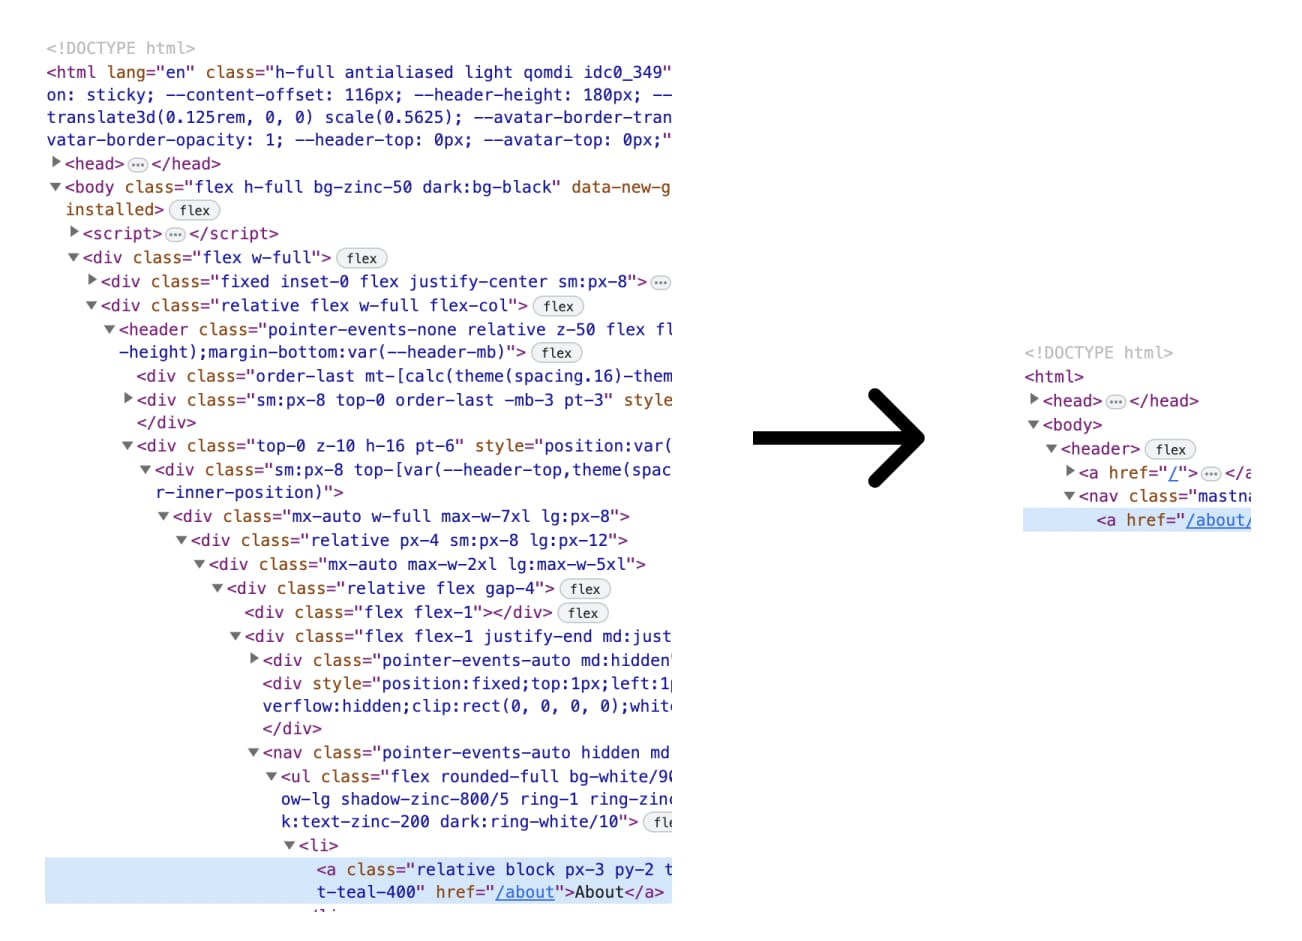
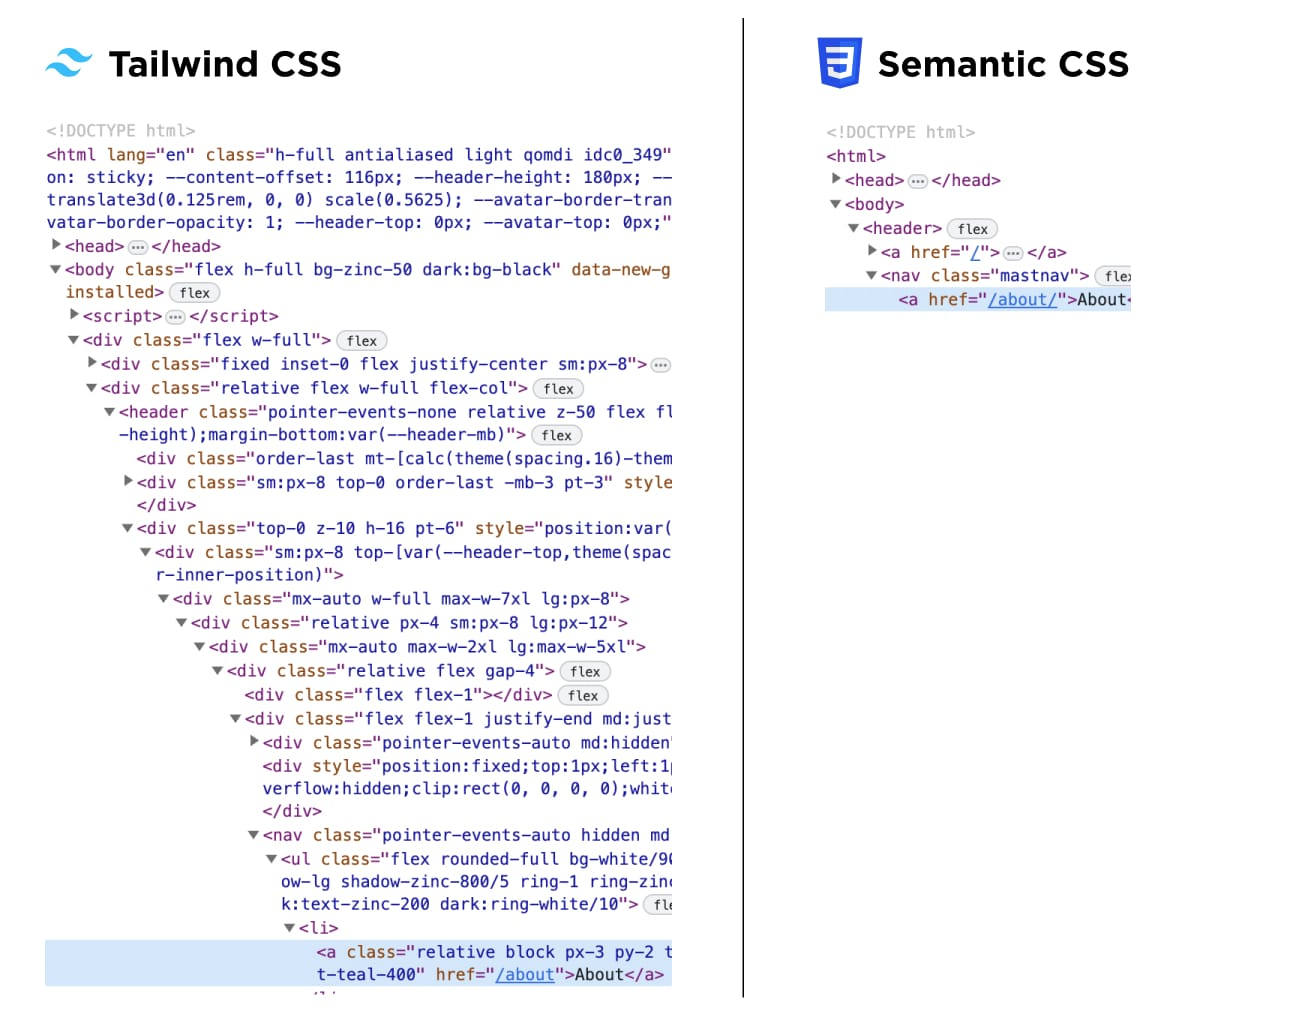
Tailwind blog entry pushed out

diff --git a/global/ssr/media.htm b/global/ssr/media.htm
@@ -1,6 +1,5 @@
 
-<figure @name="media" :id="id" class="{ class } { clickable: href }"
-  onclick="if({!!href}) location.href=\'{href}\'">
+<a @name="media" :id="id" class="{ class } { clickable: href }" :href="href">
 
   <picture :style="bg">
     <source :for="el in sources" :srcset="el.src" :media="el.media" :type="el.type">
@@ -24,7 +23,7 @@
     }
   </script>
 
-</figure>
+</a>
 
 <script>
   function getMime(path) {

diff --git a/blog/tailwind-vs-semantic-css/index.md b/blog/tailwind-vs-semantic-css/index.md
@@ -1,14 +1,14 @@
 ---
 title: Tailwind vs Semantic CSS
-desc: Comparing two identically designed websites, their size, rendering speed, and best practices.
+desc: Comparing two identically designed websites, their weight, amount of HTML and CSS, rendering speed, and best practices.
 og: img/og.jpg
-thumb: img/og-thumb.jpg
-date: 2023-10-22
+thumb: tw-thumb.jpg
+date: 2023-10-23
 include: syntax
 ---
 
 # Tailwind CSS vs. Semantic CSS
-This study compares two websites with a similar design: A commercial Tailwind "spotlight" template, and the same site crafted with semantic CSS and [Nue server components](/docs/nuejs/server-components). We'll take a deep look at what is under the hood and how the sites are built.
+This study compares two websites with a similar design: the official Tailwind "spotlight" template from the developers of Tailwind, and the same site crafted with semantic CSS and [Nue server components](/docs/nuejs/server-components.html). We'll take a deep look at what is under the hood and how the sites are built.
 
 [.cols]
   [media]
@@ -51,7 +51,7 @@ Here is the full HTML source code of the front page.
   caption: Full HTML coding on the front page
   class: small-bordered wider
 
-Tailwind is 75K of unminified HTML, while the semantic version is 8K. That is: Tailwind and Next.js require ~nine times more HTML~ to render the same design than the semantic version.
+Tailwind (and Next.js) generate 75K of unminified HTML, while the semantic version is only 8K. While some parts come from Next, it's pretty clear that Tailwind requires significantly more HTML to render the same design than the semantic version.
 
 With Tailwind the [Text to HTML Ratio][tw-ratio] is only 2.3%, which is "Very low" according to SiteGuru. [Nue ratio][nue-ratio], however, is 20.3% which is "Good".
 
@@ -87,7 +87,7 @@ Some key takes:
   caption: Creating a new design by extending a semantic base design
   class: tall
 
-Theming or "skinning" is a powerful concept in semantic CSS. You can alter your design by swapping parts of your CSS with another one or overriding a [base version](/@base/). Theming is impossible with Tailwind because the design is tightly coupled to the markup. If you want a new design, you must rewrite your HTML and wipe out your earlier work.
+Theming or "skinning" is a powerful concept in semantic CSS. You can alter your design by swapping parts of your CSS with another one or overriding a [base version](/@base/). CSS theming is impossible with Tailwind because the design is coupled to the markup. If you want a new design, you must edit your markup and override your earlier work.
 
 
 
@@ -105,7 +105,7 @@ Please compare [Tailwind metrics](//pagespeed.web.dev/analysis/https-spotlight-t
 
 Two reasons why the semantic version is faster:
 
-1. The primary CSS is [inlined](//blog.logrocket.com/improve-site-performance-inlining-css/) on the HTML page so that all the assets for the first viewport are fetched in the initial request.
+1. The primary CSS is [inlined](//imkev.dev/loading-css) on the HTML page so that all the assets for the first viewport are fetched in the initial request. This is probably the most important performance optimization for the perceived page loading experience.
 
 2. The first request is [less than 14K][14k], which is the maximum size of the first TCP packet.
 
@@ -188,6 +188,8 @@ To this
 <button class="secondary">
 ```
 
+Without turning into components.
+
 
 ### But co-location is important?
 Co-location is a catchy name for tight coupling. A term to promote the idea that styling should be tied to the presentation. Repeating things vs. re-using things. See above.
@@ -221,5 +223,5 @@ I'm working on it! I wanted to push out this blog entry quickly without the over
 
 [join-list]
 
-I'd appreciate your thoughts. I'd like to understand what people think of all this. You can also participate in the [discussion at Hacker News](/).
+I'd appreciate your thoughts. I'd like to understand what people think of all this. You can also participate in the [discussion at Hacker News](//news.ycombinator.com/item?id=37982407).
 

diff --git a/faq/index.md b/faq/index.md
@@ -92,28 +92,7 @@ This is more like fixing a broken tire or replacing a massive pickup truck with 
 
 
 ## Why not Tailwind? [tailwind]
-Nue prefers semantic CSS and external stylesheets, because:
-
-1. *Decoupled design*: when styling is decoupled from the component it's easy make the component look different in various places by taking advantage of the cascade or using a different stylesheet
-
-1. *Page weight*: It's easier to keep your initial TCP packet under the 14kb limit when the HTML code is leaner and the style is easy to split into primary and secondary CSS.
-
-1. *Standards-based*: writing CSS directly makes you master the standard and you can play around with things like [container queries](//developer.mozilla.org/en-US/docs/Web/CSS/CSS_container_queries), [:has() selector](//developer.mozilla.org/en-US/docs/Web/CSS/:has), or [@layer](//developer.mozilla.org/en-US/docs/Web/CSS/@layer).
-
-Look for [details and examples](/docs/nuejs/styling-components.html)
-
-
-## Why not TypeScript? [ts]
-Nue is written with plain JavaScript because:
-
-1. *ES6 is awesome*: think [modules][modules], [destructuring][destroy], and the [proxy][proxy]
-
-1. *Dynamic typing* is a good thing and you can [use it to your advantage][dynamic].
-
-1. *Browser standard*: JavaScript runs natively on the browser without an extra compilation step.
-
-Nue is obviously usable in both JavaScript and TypeScript projects.
-
+Because semantic CSS is significantly leaner, it renders faster, and is easier to modify and extend. I've written [a few hundred words](/blog/tailwind-vs-semantic-css/) about it.
 
 
 [antirez]: //twitter.com/antirez/status/1378272801522597888
